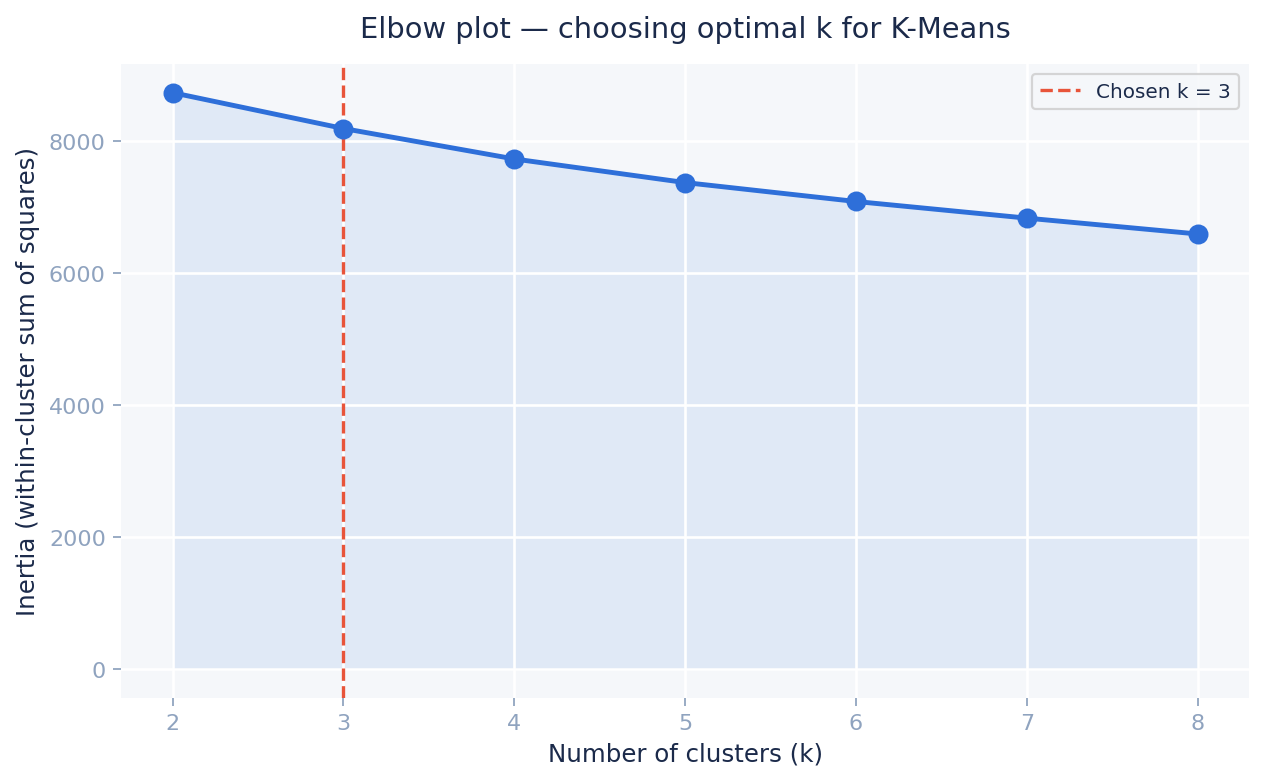
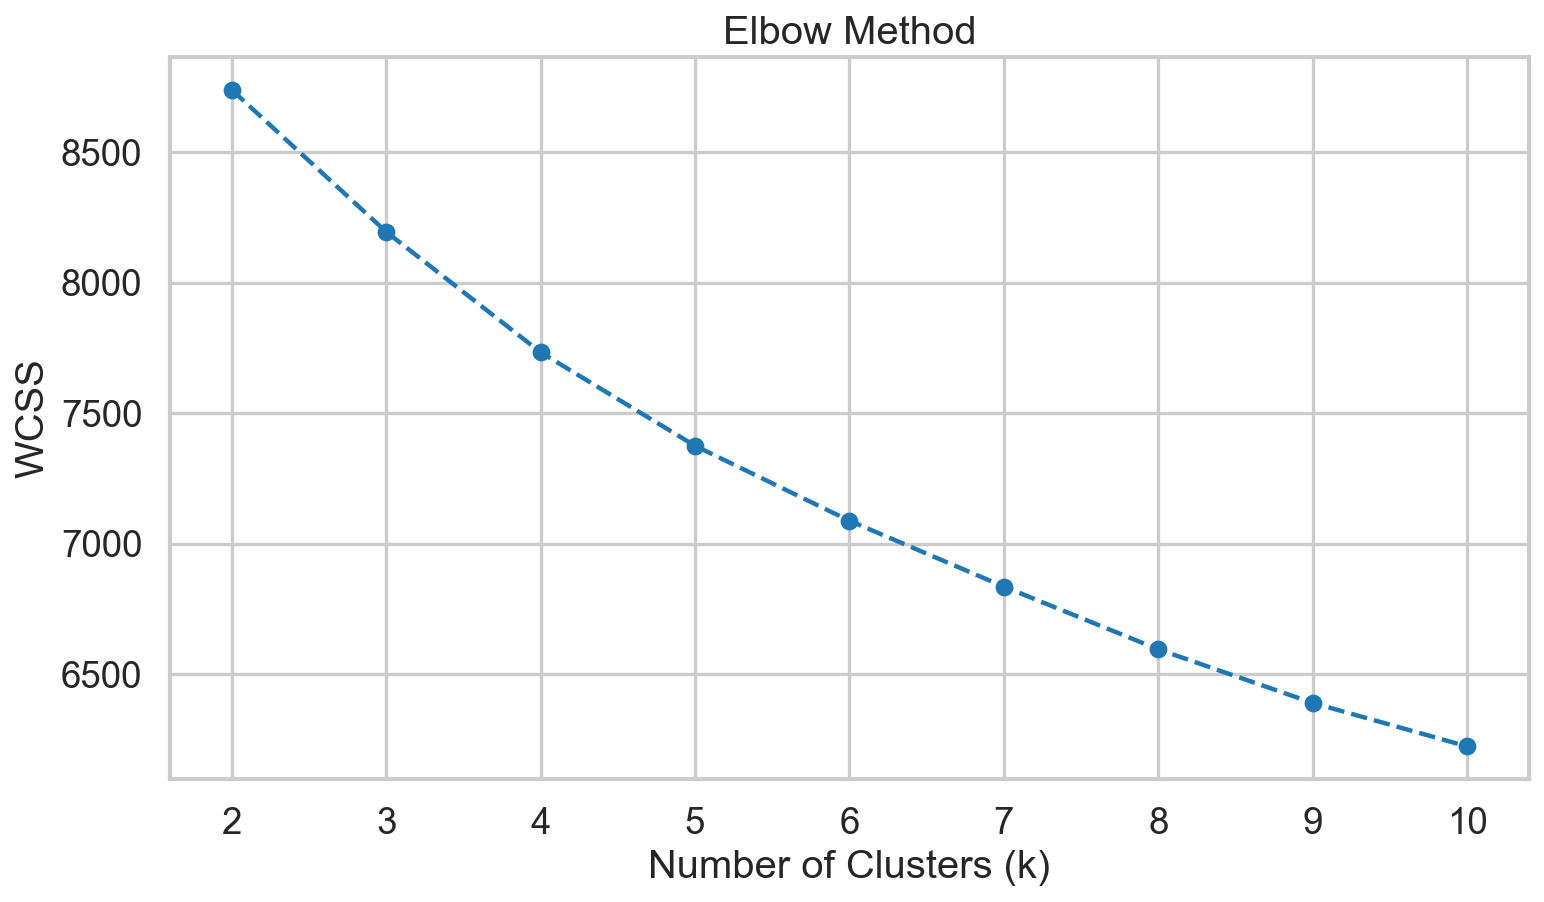
Apply Zahirah style guide: whitegrid, Reds heatmaps, viridis PCA, WCSS elbow

diff --git a/hour1.1/hour1.1_analysis.py b/hour1.1/hour1.1_analysis.py
@@ -65,29 +65,8 @@ print(f"Data loaded: {df.shape[0]} rows, {df.shape[1]} cols")
 CHARTS_DIR = Path(__file__).parent / 'charts'
 CHARTS_DIR.mkdir(exist_ok=True)
 
-NAVY  = '#1B2A4A'
-BLUE  = '#2E6FD9'
-CORAL = '#E8543A'
-SLATE = '#F5F7FA'
-GREY  = '#8FA3BF'
-
-plt.rcParams.update({
-    'font.family':        'DejaVu Sans',
-    'axes.facecolor':     SLATE,
-    'figure.facecolor':   'white',
-    'axes.spines.top':    False,
-    'axes.spines.right':  False,
-    'axes.spines.left':   False,
-    'axes.spines.bottom': False,
-    'axes.grid':          True,
-    'grid.color':         'white',
-    'grid.linewidth':     1.2,
-    'axes.labelcolor':    NAVY,
-    'axes.titlecolor':    NAVY,
-    'xtick.color':        GREY,
-    'ytick.color':        GREY,
-    'text.color':         NAVY,
-})
+sns.set_context('talk')
+sns.set_style('whitegrid')
 
 
 def save(fig, name):
@@ -106,23 +85,18 @@ X_scaled = scaler.fit_transform(X)
 # -- Chart 1: Elbow plot -------------------------------------------------------
 
 inertias = []
-k_range = range(2, 9)
+k_range = range(2, 11)
 for k in k_range:
     km = KMeans(n_clusters=k, init='k-means++', random_state=42, n_init=10)
     km.fit(X_scaled)
     inertias.append(km.inertia_)
 
-fig, ax = plt.subplots(figsize=(8, 5))
-ax.plot(list(k_range), inertias, marker='o', linewidth=2.2,
-        color=BLUE, markersize=8, zorder=4)
-ax.fill_between(list(k_range), inertias, alpha=0.1, color=BLUE)
-ax.axvline(3, color=CORAL, linewidth=1.5, linestyle='--', zorder=3,
-           label='Chosen k = 3')
-ax.set_xlabel('Number of clusters (k)', fontsize=11)
-ax.set_ylabel('Inertia (within-cluster sum of squares)', fontsize=11)
-ax.set_title('Elbow plot — choosing optimal k for K-Means',
-             fontsize=13, fontweight='500', pad=12)
-ax.legend(fontsize=9, framealpha=0.8)
+fig, ax = plt.subplots(figsize=(10, 6))
+ax.plot(list(k_range), inertias, marker='o', linewidth=2,
+        color='#1f77b4', markersize=7, linestyle='--')
+ax.set_xlabel('Number of Clusters (k)')
+ax.set_ylabel('WCSS')
+ax.set_title('Elbow Method')
 save(fig, CHARTS_DIR / 'chart1_elbow.png')
 
 # -- Fit final model (k=3) -----------------------------------------------------
@@ -150,41 +124,32 @@ df['PCA2'] = X_pca[:, 1]
 var1 = pca.explained_variance_ratio_[0]
 var2 = pca.explained_variance_ratio_[1]
 
-palette = {0: CORAL, 1: BLUE, 2: GREY}
-
 fig, ax = plt.subplots(figsize=(10, 7))
-for cluster_id, color in palette.items():
-    mask = df['Cluster'] == cluster_id
-    ax.scatter(
-        df.loc[mask, 'PCA1'], df.loc[mask, 'PCA2'],
-        color=color, label=f'Cluster {cluster_id}',
-        s=50, alpha=0.7, zorder=3,
-    )
-ax.set_xlabel(f'Principal Component 1 ({var1:.1%} variance)', fontsize=11)
-ax.set_ylabel(f'Principal Component 2 ({var2:.1%} variance)', fontsize=11)
-ax.set_title(f'2D cluster map (PCA) — total variance explained: {var1+var2:.1%}',
-             fontsize=13, fontweight='500', pad=12)
-ax.legend(title='Cluster', fontsize=9, framealpha=0.8)
+sns.scatterplot(
+    x='PCA1', y='PCA2', hue='Cluster', data=df,
+    palette='viridis', s=60, alpha=0.7, ax=ax,
+)
+ax.set_xlabel(f'Principal Component 1 ({var1:.1%} variance)')
+ax.set_ylabel(f'Principal Component 2 ({var2:.1%} variance)')
+ax.set_title('2D Cluster Map (PCA Analysis)')
+ax.legend(title='Cluster')
 print(f"PCA variance explained: PC1={var1:.1%}, PC2={var2:.1%}, total={var1+var2:.1%}")
 save(fig, CHARTS_DIR / 'chart2_pca_scatter.png')
 
 
 # -- Chart 3: Cluster heatmap --------------------------------------------------
 
-fig, ax = plt.subplots(figsize=(14, 6))
+fig, ax = plt.subplots(figsize=(14, 8))
 sns.heatmap(
     cluster_profiles[all_vars], annot=True, fmt='.2f',
-    cmap=sns.light_palette(CORAL, as_cmap=True),
-    linewidths=2, linecolor='white',
-    annot_kws={'size': 10, 'weight': '500', 'color': NAVY},
-    ax=ax, cbar_kws={'shrink': 0.6},
+    cmap='Reds', linewidths=0.5, linecolor='white',
+    ax=ax,
 )
-ax.set_title('Segment persona heatmap — mean scores by cluster',
-             fontsize=13, fontweight='500', pad=12)
-ax.set_xlabel('Variable', fontsize=11)
-ax.set_ylabel('Cluster', fontsize=11)
-ax.set_xticklabels(ax.get_xticklabels(), rotation=35, ha='right', fontsize=9)
-ax.set_yticklabels(ax.get_yticklabels(), rotation=0, fontsize=10)
+ax.set_title('Segment Persona Heatmap (Semantic Variables)')
+ax.set_xlabel('')
+ax.set_ylabel('Cluster')
+ax.set_xticklabels(ax.get_xticklabels(), rotation=45, ha='right')
+ax.set_yticklabels(ax.get_yticklabels(), rotation=0)
 save(fig, CHARTS_DIR / 'chart3_cluster_heatmap.png')
 
 # -- Key findings --------------------------------------------------------------

diff --git a/hour2.1/hour2.1_analysis.py b/hour2.1/hour2.1_analysis.py
@@ -26,29 +26,8 @@ print(f"Data loaded: {df.shape[0]} rows, {df.shape[1]} cols")
 CHARTS_DIR = Path(__file__).parent / 'charts'
 CHARTS_DIR.mkdir(exist_ok=True)
 
-NAVY  = '#1B2A4A'
-BLUE  = '#2E6FD9'
-CORAL = '#E8543A'
-SLATE = '#F5F7FA'
-GREY  = '#8FA3BF'
-
-plt.rcParams.update({
-    'font.family':        'DejaVu Sans',
-    'axes.facecolor':     SLATE,
-    'figure.facecolor':   'white',
-    'axes.spines.top':    False,
-    'axes.spines.right':  False,
-    'axes.spines.left':   False,
-    'axes.spines.bottom': False,
-    'axes.grid':          True,
-    'grid.color':         'white',
-    'grid.linewidth':     1.2,
-    'axes.labelcolor':    NAVY,
-    'axes.titlecolor':    NAVY,
-    'xtick.color':        GREY,
-    'ytick.color':        GREY,
-    'text.color':         NAVY,
-})
+sns.set_context('talk')
+sns.set_style('whitegrid')
 
 
 def save(fig, name):
@@ -95,39 +74,32 @@ print(f"  Difference:                              Δr = {r_high - r_low:.2f}")
 
 # -- Chart 1: Relationship correlation heatmap ---------------------------------
 
-fig, ax = plt.subplots(figsize=(8, 6))
+fig, ax = plt.subplots(figsize=(10, 8))
 sns.heatmap(
     corr_matrix, annot=True, fmt='.2f',
-    cmap=sns.diverging_palette(220, 20, as_cmap=True),
-    center=0, vmin=-1, vmax=1,
-    linewidths=2, linecolor='white',
-    annot_kws={'size': 12, 'weight': '500', 'color': NAVY},
-    ax=ax, square=True, cbar_kws={'shrink': 0.7},
+    cmap='Reds', linewidths=0.5, linecolor='white',
+    ax=ax, square=True,
 )
-ax.set_title('Relationship map — IV → Mediator → DV',
-             fontsize=13, fontweight='500', pad=12)
-ax.set_xticklabels(ax.get_xticklabels(), rotation=35, ha='right', fontsize=10)
-ax.set_yticklabels(ax.get_yticklabels(), rotation=0, fontsize=10)
+ax.set_title('Relationship Map: IV -> Mediator -> DV')
+ax.set_xticklabels(ax.get_xticklabels(), rotation=45, ha='right')
+ax.set_yticklabels(ax.get_yticklabels(), rotation=0)
 save(fig, CHARTS_DIR / 'chart1_relationship_correlation.png')
 
 # -- Chart 2: Moderation bar chart ---------------------------------------------
 
-fig, ax = plt.subplots(figsize=(7, 5))
+fig, ax = plt.subplots(figsize=(8, 5))
 groups = ['High Privacy\nConcern', 'Low Privacy\nConcern']
 values = [r_high, r_low]
-colors = [CORAL if v > 0 else BLUE for v in values]
 
-bars = ax.bar(groups, values, color=colors, width=0.45, zorder=3)
-ax.axhline(0, color=GREY, linewidth=1.2, linestyle='--', zorder=2)
-ax.set_ylabel('Correlation: Overload → Print_Trust', fontsize=11)
-ax.set_title('Privacy Concern moderates the Overload → Trust path',
-             fontsize=13, fontweight='500', pad=12)
-ax.set_ylim(-0.2, 0.2)
+bars = ax.bar(groups, values, color=['#1f77b4', '#aec7e8'], width=0.45)
+ax.axhline(0, color='grey', linewidth=1, linestyle='--')
+ax.set_ylabel('Correlation: Overload -> Print_Trust')
+ax.set_title('Moderation Effect of Privacy Concern')
+ax.set_ylim(-0.2, 0.25)
 for bar, val in zip(bars, values):
     ax.text(bar.get_x() + bar.get_width() / 2,
-            val + (0.008 if val >= 0 else -0.015),
-            f'r = {val:.2f}', ha='center', va='bottom',
-            fontsize=11, fontweight='500', color=NAVY)
+            val + (0.008 if val >= 0 else -0.02),
+            f'r = {val:.2f}', ha='center', va='bottom')
 save(fig, CHARTS_DIR / 'chart2_moderation_bar.png')
 
 # -- Key findings --------------------------------------------------------------
